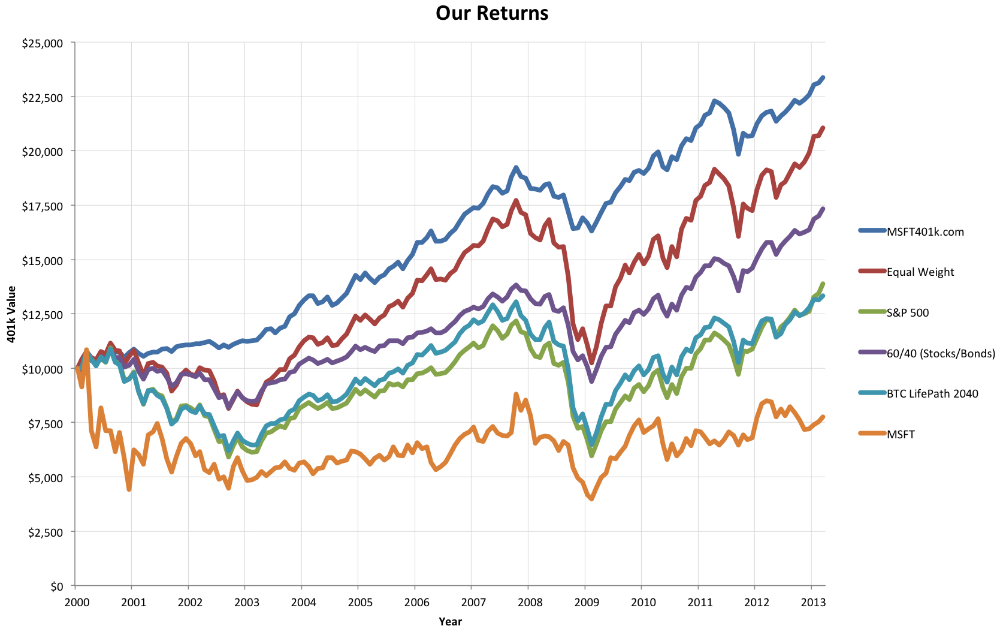
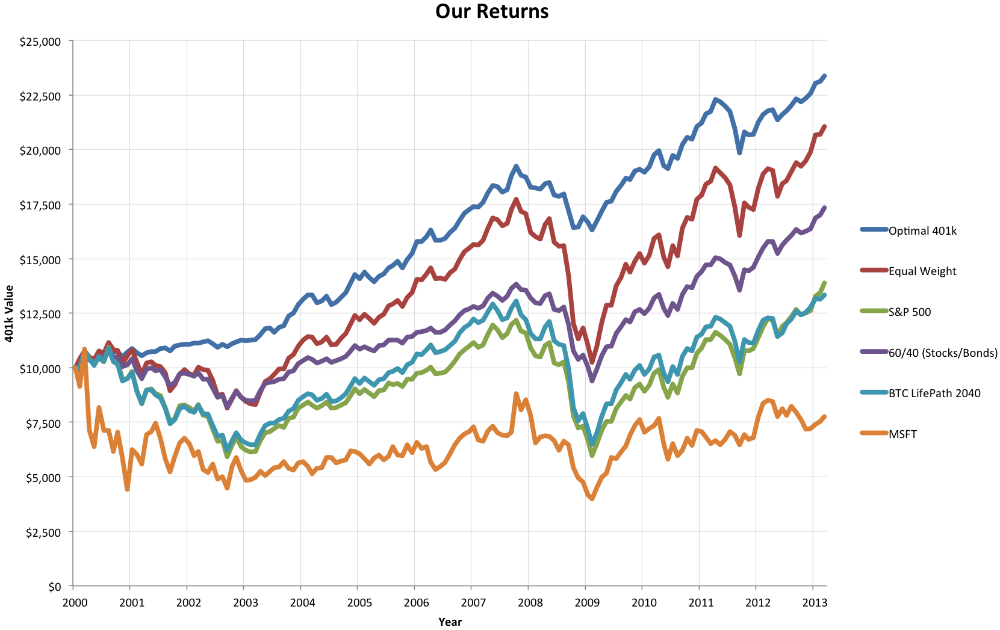
rebrand to Optimal 401k and change user report to DESC

diff --git a/app/assets/stylesheets/home.css.scss b/app/assets/stylesheets/home.css.scss
@@ -13,7 +13,7 @@ body {
 #body-div {	overflow-x: hidden; width: 100%; max-width: 100%; }
 
 #logo { 
-	width: 150px; 
+	width: 200px; 
 	height: 75px; 
 	display: table-cell; 
 	vertical-align: middle; 
@@ -29,7 +29,7 @@ body {
 }
 
 #navbar { 
-	width: 650px; 
+	width: 600px; 
 	height: 80px; 
 	display: table-cell; 
 	vertical-align: middle; 

diff --git a/app/mailers/user_mailer.rb b/app/mailers/user_mailer.rb
@@ -1,8 +1,8 @@
 class UserMailer < ActionMailer::Base
-  default from: "The MSFT401k Team <team@MSFT401k.com>"
+  default from: "The Optimal 401k Team <team@optimal401k.com>"
 
   def welcome_email(email)
-    @url  = "http://www.MSFT401k.com"
+    @url  = "http://www.optimal401k.com"
     @user = User.find_by_email(email)
     current_time_utc = Time.now.change(usec: 0)
     current_time = current_time_utc.in_time_zone('America/Los_Angeles')
@@ -10,46 +10,46 @@ class UserMailer < ActionMailer::Base
     @user.welcomed_count = @user.welcomed_count + 1
     @user.wmpt = (current_time.year * 100 + current_time.month)
     @user.save
-    mail(:to => email, :subject => "Welcome to MSFT401k!")
+    mail(:to => email, :subject => "Welcome to Optimal 401k!")
   end
 
   def first_monthly_email(email)
     puts "\n\n\nStarting sending first monthly mail to " + email + " ..."
-    @url  = "http://www.MSFT401k.com"
+    @url  = "http://www.optimal401k.com"
     @email = email
     current_time = Time.now.in_time_zone('America/Los_Angeles')
     month_year = Date::MONTHNAMES[current_time.month] + " " + current_time.year.to_s
-    mail(:to => email, :subject => "MSFT401k - " + month_year + " Rebalance")
+    mail(:to => email, :subject => "Optimal 401k - " + month_year + " Rebalance")
     puts "Finished sending first monthly mail to " + email
   end
 
   def regular_monthly_email(email)
     puts "\n\n\nStarting sending regular monthly mail to " + email + " ..."
-    @url  = "http://www.MSFT401k.com"
+    @url  = "http://www.optimal401k.com"
     @email = email
     current_time = Time.now.in_time_zone('America/Los_Angeles')
     month_year = Date::MONTHNAMES[current_time.month] + " " + current_time.year.to_s
-    mail(:to => email, :subject => "MSFT401k - " + month_year + " Rebalance")
+    mail(:to => email, :subject => "Optimal 401k - " + month_year + " Rebalance")
     puts "Finished sending regular monthly mail to " + email
   end
 
   def custom_note_email(email)
-    @url  = "http://www.MSFT401k.com"
+    @url  = "http://www.optimal401k.com"
     mail(:to => email, :subject => "Frequently Asked Questions")
   end
 
   def daily_report_email(email)
-    @url  = "http://www.MSFT401k.com"
+    @url  = "http://www.optimal401k.com"
     mail(:to => email, :subject => "Daily Report")
   end
 
   def user_report_email(email)
-    @url  = "http://www.MSFT401k.com"
+    @url  = "http://www.optimal401k.com"
     mail(:to => email, :subject => "User Report")
   end
 
   def variable_email(email, subject, content)
-    @url  = "http://www.MSFT401k.com"
+    @url  = "http://www.optimal401k.com"
     @content = content
     mail(:to => email, :subject => subject)
   end
